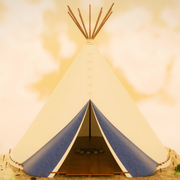
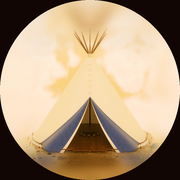
Icône du site ronde, le tipi entier au milieu
Claude-Session: https://claude.ai/code/session_016Un5z6cPRDHL8Bc21XVrah

diff --git a/JOURNAL.md b/JOURNAL.md
@@ -3,7 +3,7 @@
 Chaque IA ajoute une entrée **en haut**, à chaque intervention (voir `AGENTS.md`).
 
 ## 2026-11-16 — Claude — claude/icone-du-site
-- L'icône du site (onglet du navigateur, écran d'accueil du téléphone) : l'image d'accueil recadrée en carré, le tipi au milieu.
+- L'icône du site (onglet du navigateur, écran d'accueil du téléphone) : ronde, avec le tipi entier au milieu (bords de l'image fondus dans le ciel).
 - Pourquoi : demandé par Ritukah, l'onglet n'avait pas d'icône.
 
 ## 2026-11-16 — Claude — claude/feu-savant
